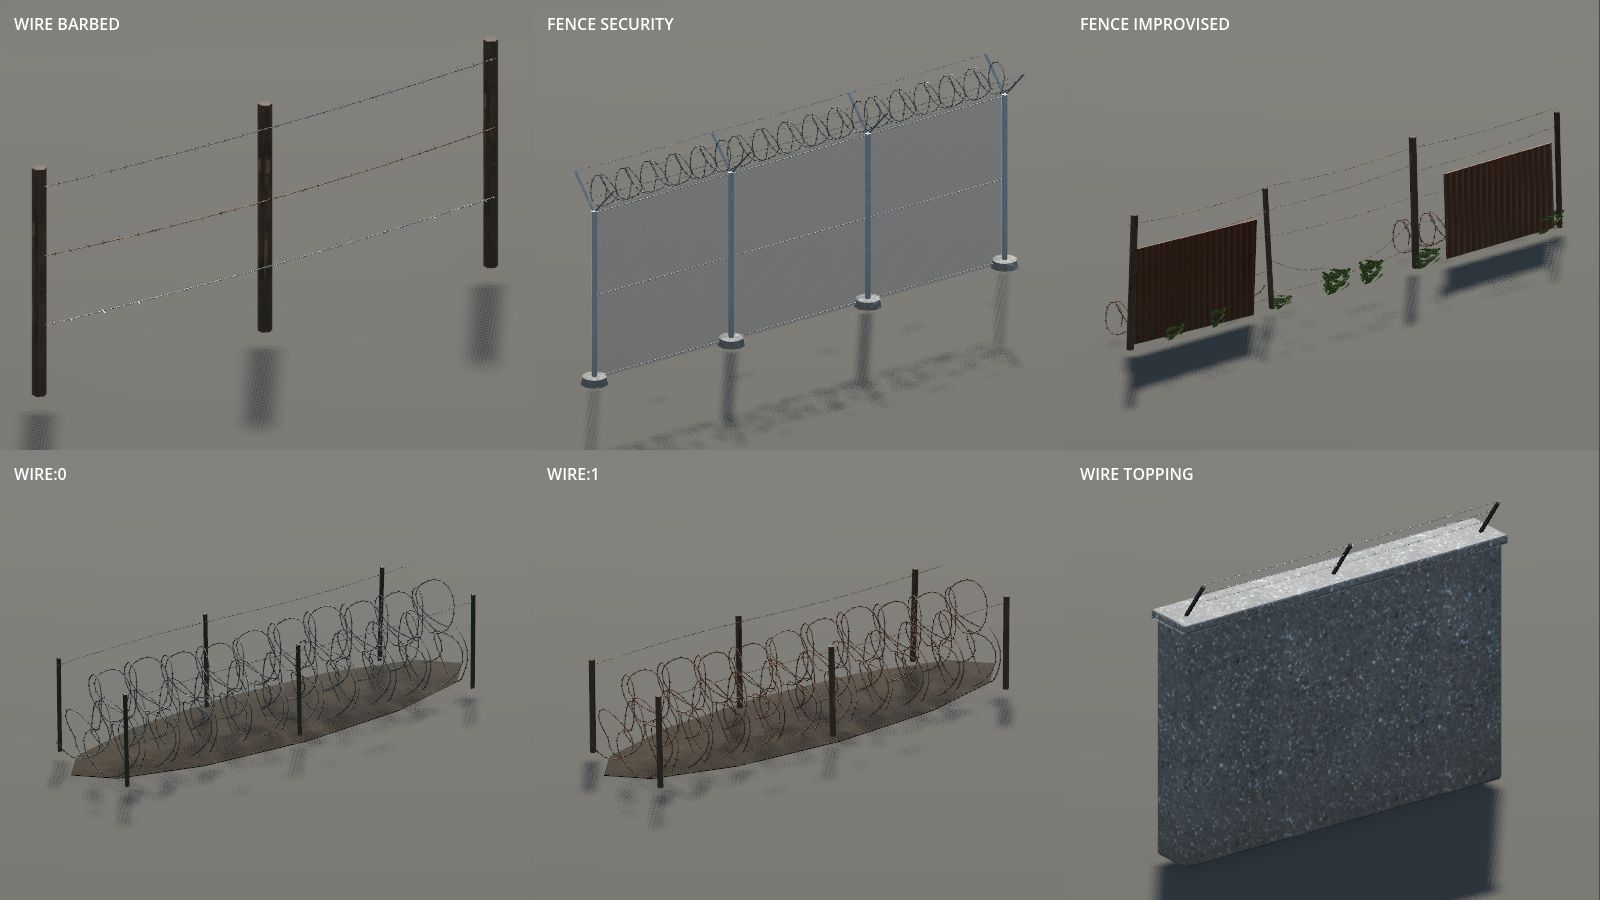
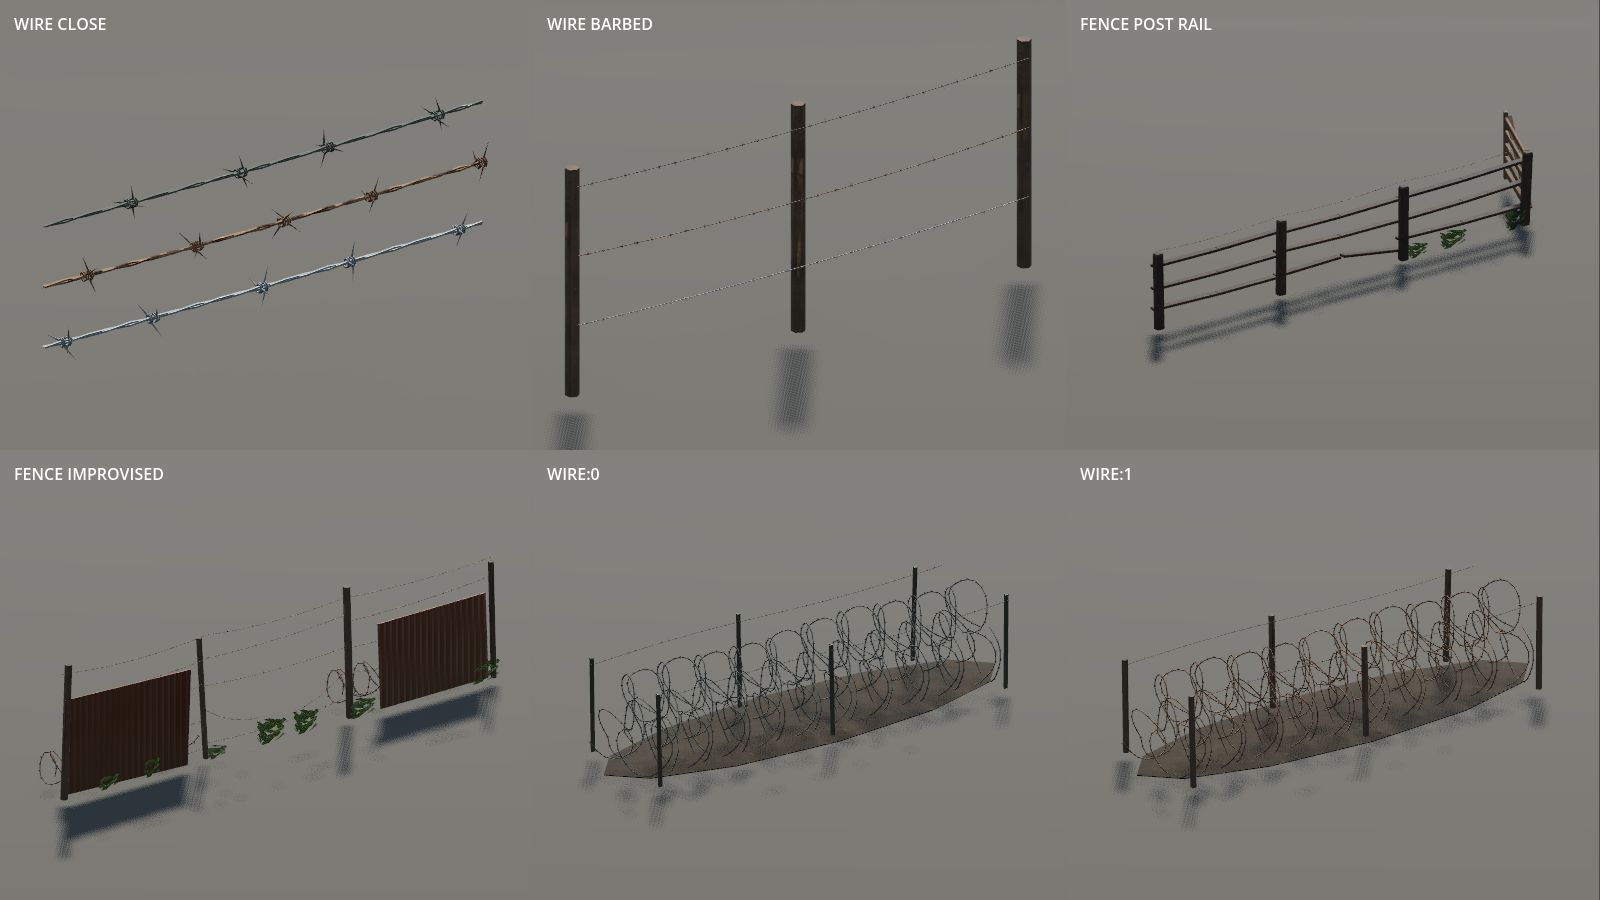
Make barbed wire look made: wrapped barbs with round points, a tight twist
Close up the barbs were flat four-point stars all facing the same way, like
printed crosses. Each barb is now two short wires coiled twice round the
pair, their four cut ends standing out as round tapered points, one pair
leaning forward along the wire and one back. The two line wires twist tight
against each other (no see-through gap), the new galvanised wire glints
less, the issue wire is a dull olive grey rather than a bluish copy of the
new, and rust is a darker brown rather than copper.

The studio's wire_close cell draws half a metre of each finish at four
times life size, so the barbs can be judged.

diff --git a/changelog/unreleased/realistic-fences.md b/changelog/unreleased/realistic-fences.md
@@ -16,8 +16,12 @@ file = "hq-perimeter.jpg"
 caption = "The security fence behind an HQ: chain-link on posts set in concrete, barbed wire and a razor coil on Y-arms, floodlights"
 
 [[screenshots]]
+file = "barbed-wire.jpg"
+caption = "Barbed wire up close (four times life size): the armies' issue wire, rusted wire, new galvanised"
+
+[[screenshots]]
 file = "wire-and-military.jpg"
-caption = "Barbed wire new, rusted and military; the Coalition's security fence and the Rebels' improvised one; concertina obstacles for each side; wire along a compound wall"
+caption = "The three wire finishes, strung on posts and along a farm's rails; the Rebels' improvised HQ fence; concertina obstacles, the Coalition's and the Rebels'"
 
 [[screenshots]]
 file = "supply-dump-screen.jpg"
@@ -37,7 +41,8 @@ caption = "Six of the garden and field fences, each with its gate"
   with what they had: crooked stakes, slack rusty wire, roofing sheets and pallets wired into the gaps, a rusty coil
   dragged along the outside. The town's supply dump is screened with mesh panels in concrete feet, some hung with
   scrim and weighted with sandbags.
-- **Barbed wire** is made as the real thing is: two twisted strands with four-point barbs wrapped on every 11 cm.
+- **Barbed wire** is made as the real thing is: two strands twisted tight, and every 11 cm a barb of two short
+  wires coiled round them, their four cut ends standing out as sharp points at odd angles.
   It comes bright and new along compound walls, rusted brown and slack on farms and the Rebels' wire, and in the
   Coalition's dull issue finish. Concertina obstacles are pulled out so their loops cross, as clipped coils do.
 - Fences have grass growing up through their feet, paint gone chalky, a picket missing here, a board kicked out
